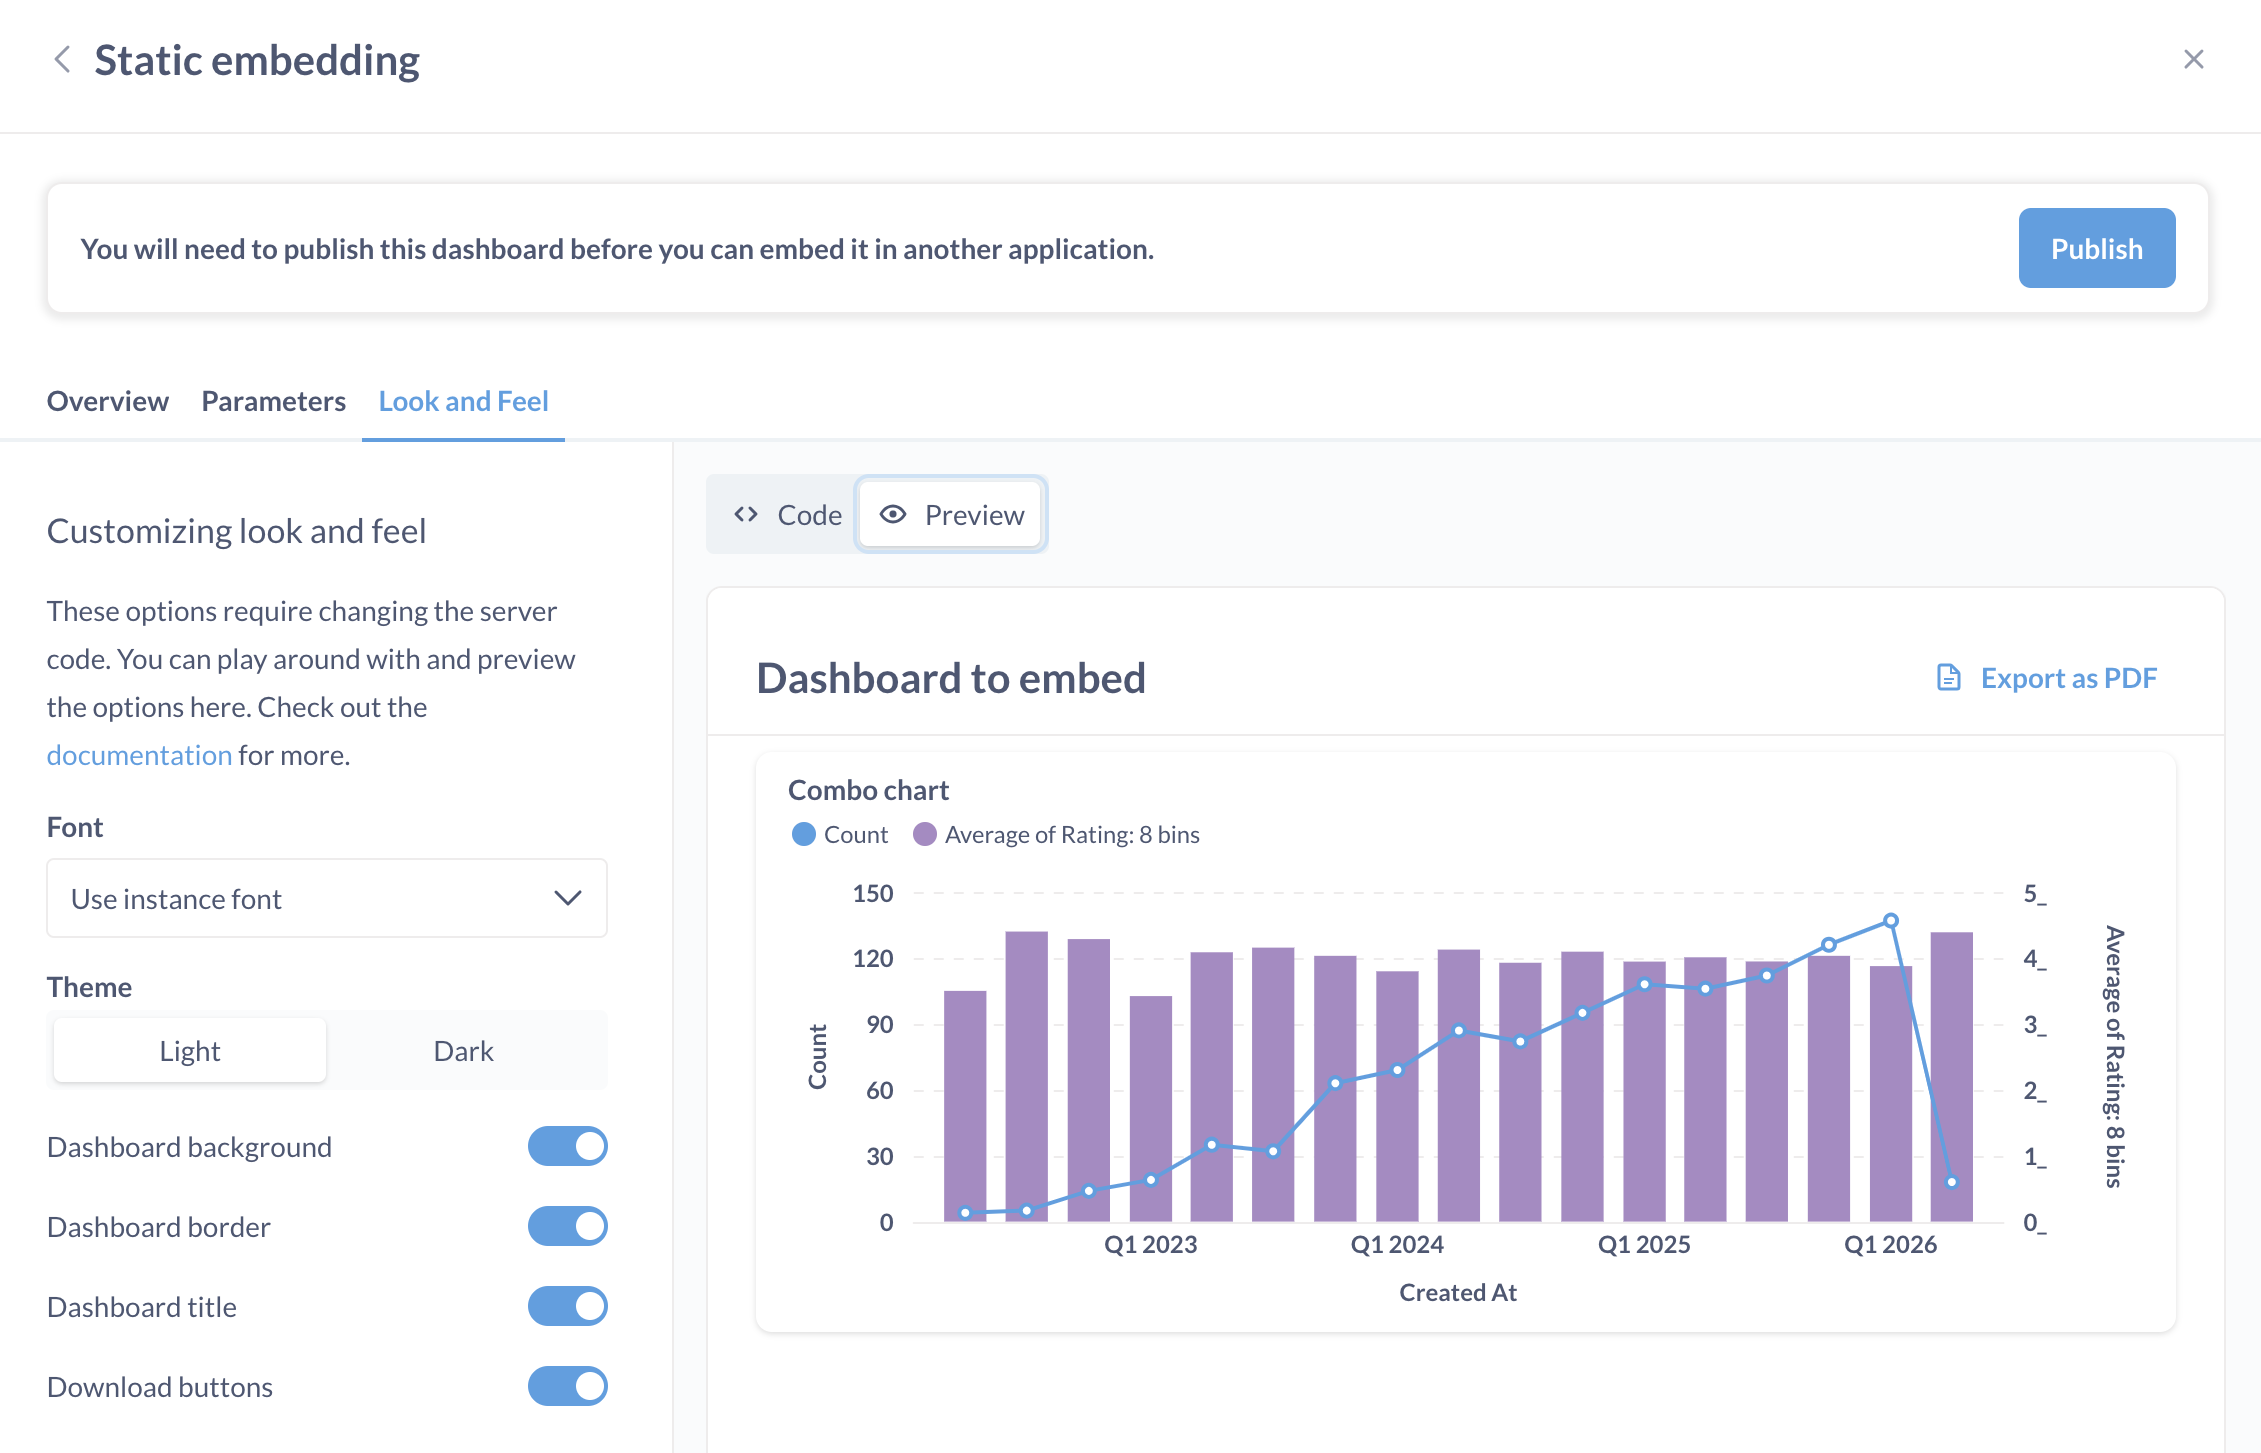
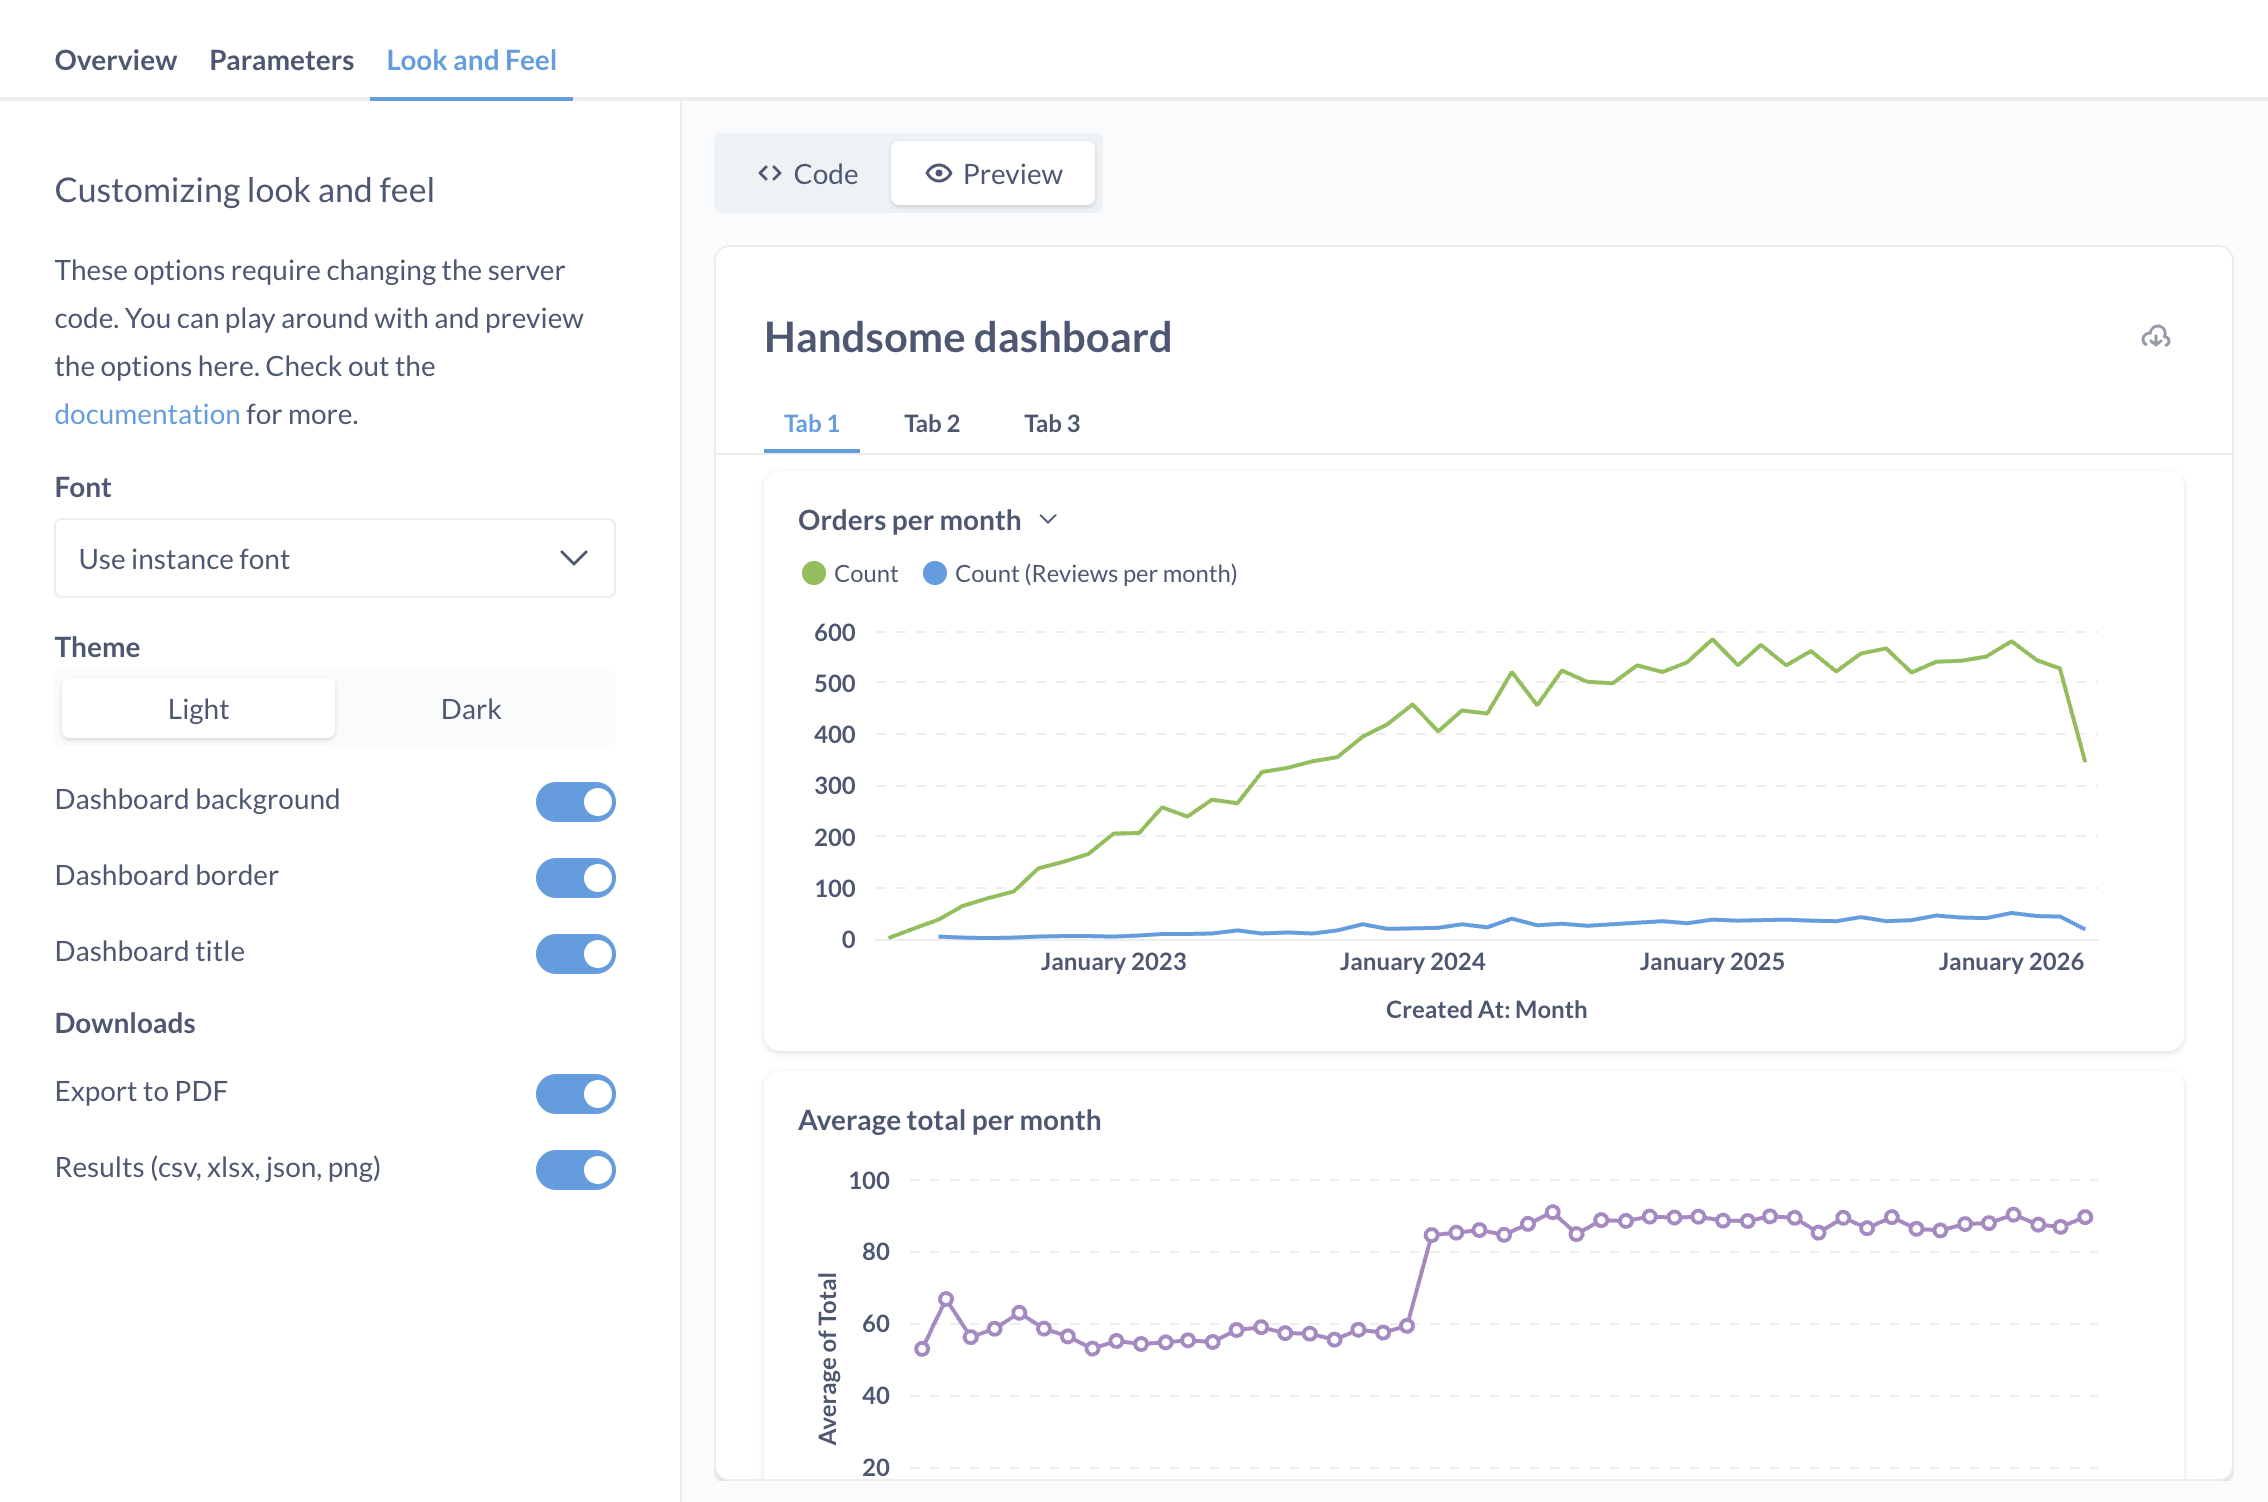
docs -  download button for static embeds (#58707)

diff --git a/docs/embedding/static-embedding-parameters.md b/docs/embedding/static-embedding-parameters.md
@@ -1,5 +1,6 @@
 ---
 title: Parameters for static embeds
+summary: Using parameters to customize embedded static questions and dashboards.
 redirect_from:
   - /docs/latest/embedding/signed-embedding-parameters
 ---
@@ -56,33 +57,33 @@ If you want to set a default value for your [editable filter widget](#adding-a-f
 your_embedding_url?parameter_name=value
 ```
 
-Let's say your embedded dashboard has a filter connected to an editable parameter called "Breakfast". If you want to set the default value for the "Breakfast" filter to "Scrambled eggs":
+For example, if your embedded dashboard has a filter connected to an editable parameter called "Breakfast", and you want to set the default value to "Hash browns":
 
 ```
-your_embedding_url?breakfast=Scrambled_eggs
+your_embedding_url?breakfast=Hash_browns
 ```
 
-To specify default values for more than one filter, separate the filters with ampersands (&):
+To specify default values for multiple filters, separate them with ampersands (&):
 
 ```
-your_embedding_url?breakfast=Scrambled_eggs&lunch=Grilled_cheese
+your_embedding_url?breakfast=Hash_browns&lunch=Sandwich
 ```
 
-You can set multiple default values for a filter by separating the `key=value` pairs with ampersands (&):
+You can set multiple default values for a single filter by separating the values with ampersands (&):
 
 ```
-your_embedding_url?breakfast=Scrambled_eggs&breakfast=Bacon
+your_embedding_url?breakfast=Hash_browns&breakfast=Pancakes
 ```
 
 ## Hiding filter widgets from a static embed
 
-If you have a lot of editable parameters (resulting in a lot of filter widgets), you can hide them from your static embed by adding `#hide_parameters` to the end of the URL in your iframe's `src` attribute:
+If you have multiple editable parameters (resulting in multiple filter widgets), you can hide specific ones from your static embed by adding `#hide_parameters` to the end of the URL in your iframe's `src` attribute:
 
 ```
 your_embedding_url#hide_parameters=parameter_name
 ```
 
-For example, if you want to hide a filter called "Breakfast" from your embedded dashboard:
+For example, to hide a filter called "Breakfast" from your embedded dashboard:
 
 ```
 your_embedding_url#hide_parameters=breakfast
@@ -97,7 +98,7 @@ your_embedding_url#hide_parameters=breakfast,lunch
 You can also simultaneously assign a parameter a default value _and_ hide its filter widget:
 
 ```
-your_embedding_url?breakfast=Scrambled_eggs#hide_parameters=breakfast
+your_embedding_url?breakfast=Hash_browns#hide_parameters=breakfast
 ```
 
 ## Unsigned parameter syntax
@@ -184,14 +185,14 @@ You can preview appearance settings from your question or dashboard's embedded a
 
 | Parameter name             | Possible values                                                                                                                                |
 | -------------------------- | ---------------------------------------------------------------------------------------------------------------------------------------------- |
-| `background`               | true (default), false. Dashboards only.                                                                                                        |
-| `bordered`                 | true (default), false.                                                                                                                         |
-| `locale\*`                 | E.g., `locale=ko`. See [list of locales](../configuring-metabase/localization.md#supported-languages)                                          |
-| `titled`                   | true (default), false.                                                                                                                         |
-| `theme`                    | null (default), night. `theme=transparent` should work, but is deprecated (see [Transparent backgrounds](#transparent-backgrounds-for-embeds)) |
+| `background`               | `true` (default), `false`. Dashboards only.                                                                                                    |
+| `bordered`                 | `true` (default), `false`.                                                                                                                     |
+| `locale`\*                 | E.g., `ko`. See [list of locales](../configuring-metabase/localization.md#supported-languages)                                                 |
+| `titled`                   | `true` (default), `false`.                                                                                                                     |
+| `theme`                    | `null` (default), `night`. `theme=transparent` should work, but is deprecated (see [Transparent backgrounds](#transparent-backgrounds-for-embeds)) |
 | `refresh` (dashboard only) | integer (seconds, e.g., `refresh=60`).                                                                                                         |
 | `font`\*                   | [font name](../configuring-metabase/fonts.md)                                                                                                  |
-| `downloads`\*\*            | true (default), false.                                                                                                                         |
+| `downloads`\*\*            | `true` (default), `false`, `results`, `pdf`                                                                                                    |
 
 \* Available on [Pro](https://www.metabase.com/product/pro) and [Enterprise](https://www.metabase.com/product/enterprise) plans
 
@@ -203,13 +204,13 @@ For global appearance settings, such as the colors and fonts used across your en
 
 {% include plans-blockquote.html feature="Locales for static embeds" %}
 
-To change the UI language for a static embed, you can set its [locale](../configuring-metabase/localization.md#supported-languages). For example, to set a public link's language to Korean, you could append `#locale=ko`.
+To change the UI language for a static embed, you can set its [locale](../configuring-metabase/localization.md#supported-languages). For example, to set a public link's language to Korean, append `#locale=ko`:
 
 ```
 https://metabase.example.com/public/dashboard/7b6e347b-6928-4aff-a56f-6cfa5b718c6b?category=&city=&state=#locale=ko
 ```
 
-If you have multiple params, separated them with an ampersand `&`:
+If you have multiple parameters, separate them with an ampersand (`&`):
 
 ```
 category=Gadget&state=Vermont#theme=night&locale=ko
@@ -228,13 +229,24 @@ Making an embed transparent depends on the type of embed:
 
 {% include plans-blockquote.html feature="Disabling downloads" %}
 
-By default, Metabase will include a **Download** button on embedded questions, and an **Export to PDF** option on embedded dashboards. You can remove the option to download results by setting `downloads=false` in the embedding URL in the iframe's `src` attribute, see [customizing the appearance of static embeds](./static-embedding.md#customizing-the-appearance-of-static-embeds).
+By default, Metabase will include a **Download** button on embedded questions, and an **Export to PDF** option on embedded dashboards.
 
-If the download option is missing when you expected it to be available, check that the URL in the `src` attribute for your iframe has the parameter `downloads=true`.
+You can configure these options with the `downloads` parameter in the embedding URL in the iframe's `src` attribute, see [customizing the appearance of static embeds](./static-embedding.md#customizing-the-appearance-of-static-embeds).
+
+`downloads` accepts the following values:
+
+- `true` (default): include both the Download and Export to PDF options.
+- `false`: hide both the Download and Export to PDF options.
+- `results`: show the Download option.
+- `pdf`: show the Export to PDF option (dashboards only).
+
+You can combine the explicit options: `downloads=results,pdf` is the same as `downloads=true`.
+
+The `downloads` parameter replaces the legacy `hide_download_button` parameter.
 
 ## Maximum request size
 
-The maximum length of a static embedding URL (including all parameters) is the value of your [`MB_JETTY_REQUEST_HEADER_SIZE`](../configuring-metabase/environment-variables.md#mb_jetty_request_header_size) environment variable. The default is 8192 bytes.
+The maximum length of a static embedding URL (including all parameters) is determined by your [`MB_JETTY_REQUEST_HEADER_SIZE`](../configuring-metabase/environment-variables.md#mb_jetty_request_header_size) environment variable. The default is 8192 bytes.
 
 If your static embedding URL exceeds the maximum header size, you'll see a log message like `URI too long`. You can update the environment variable to accept larger headers. If you're using a proxy server, you may need to set a corresponding property on the server as well.
 
